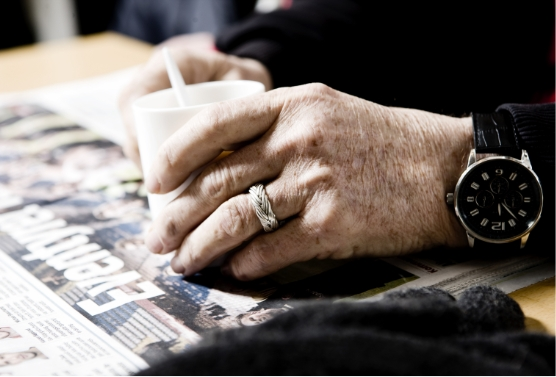
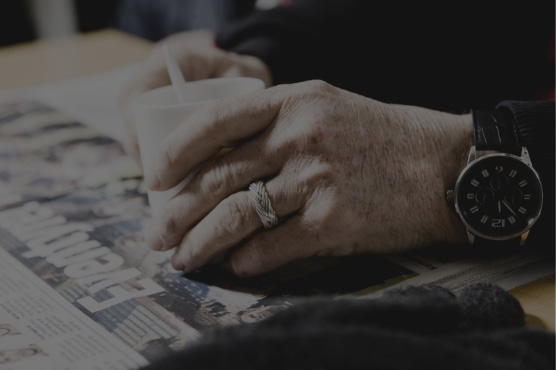
new changes on header and frontpage

diff --git a/sass/03_Layouts/frontpage.scss b/sass/03_Layouts/frontpage.scss
@@ -2,7 +2,7 @@
 //Main Banner Section
 
 .banner{
-    background-image: url(../img/Banner.jpg);
+    background-image: linear-gradient(rgba(0, 0, 0, 0.3), rgba(0, 0, 0, 0.3)), url(../img/Banner.jpg);
 	background-position: center;
 	background-size: cover;
 	background-repeat: no-repeat;
@@ -90,6 +90,8 @@
             margin-bottom: 1.25rem;
             display: block;
             color: $primary-color;
+            font-style: italic;
+            font-weight: bold;
         }
         p{
             margin-bottom: 2.1rem;
@@ -101,7 +103,10 @@
 //Projects Section
 
 .projects{
-    background-color: $primary-color;
+    background-image: linear-gradient(rgba(45, 202, 115, 0.95), rgba(45, 202, 115, 0.95)), url(../img/project_bg.jpg);
+    background-position: center;
+	background-size: cover;
+	background-repeat: no-repeat;
     color: $white-color;
     padding: 75px 0;
     .projects-container{
@@ -110,14 +115,24 @@
     .projects-wrapper{
         display: flex;
         flex-wrap: wrap;
-        justify-content: space-between;¨
-        div{
-            width: 45%;
-            text-align: center; 
+        justify-content: space-between;
+            div{
+                width: 45%;
+                text-align: center; 
+                &:nth-child(1), &:nth-child(2){
+                    margin-bottom: 25px;
+                }
+             h4{
+                font-size: 5rem;
+                margin: 0;
+            }
+            p{
+
+            }
         }
     }
     .project-info{
-        margin-top: 3.1rem;
+        margin-bottom: 3.1rem;
         h2{
             font-size: 1.9rem;
         }
@@ -233,7 +248,7 @@
 
 .newsletter{
     padding: 75px 0;
-    background-image: url(../img/newsletter-bg.jpg);
+    background-image: linear-gradient(rgba(0, 0, 0, 0.6), rgba(0, 0, 0, 0.6)), url(../img/newsletter-bg.jpg);
 	background-position: center;
 	background-size: cover;
 	background-repeat: no-repeat;
@@ -332,6 +347,25 @@
             margin-bottom: 0;
         }
     }
+
+
+    
+//Sponsor Section
+    .spons{
+        padding: 50px 0;
+        .spons-container{
+            display: flex;
+            flex-wrap: wrap;
+            justify-content: space-between;
+            div{
+                width: 20%;
+            &:nth-child(1), &:nth-child(2){
+                    margin-bottom: 0px;
+                }
+            }
+        }
+    }
+    
 }
 
 /**		MEDIA QUERY - Computer 		**/ 
@@ -339,7 +373,7 @@
 @media only screen and (min-width: 1200px) {
 
     .cards{
-        padding: 75px 0px;
+        padding: 110px 0px;
         .cards-container{
             max-width: 1200px;
             text-align: center;
@@ -348,6 +382,40 @@
             }
             p{
                 line-height: 1.8rem;   
+            }
+        }
+    }
+
+
+    .projects{
+        padding: 140px 0;
+        .projects-container{
+           max-width: 1200px;
+           display: flex;
+           justify-content: space-between;
+           align-items: center;
+        }
+        .projects-wrapper{
+            display: flex;
+            flex-wrap: wrap;
+            justify-content: space-between;
+            order: 1;
+                div{
+                    width: 45%;
+                    text-align: center; 
+                    h4{
+                        font-size: 8rem;
+                    }
+                }
+        }
+        .project-info{
+            margin-bottom: 0;
+            width: 35%;
+            h2{
+                font-size: 1.9rem;
+            }
+            p{
+                margin-bottom: 2.1rem;
             }
         }
     }

diff --git a/public_html/frontpage.html b/public_html/frontpage.html
@@ -101,6 +101,11 @@
     </section>
     <section class="projects">
         <div class="projects-container">
+            <div class="project-info">
+                <h2>Fokus på Forandring</h2>
+                <p>Lorem ipsum dolor sit amet, consectetur adipiscing elit, sed do eiusmod tempor incididunt ut labore et aliqua. Ut enim ad minim veniam, quis nostrud exercitation ullamco Duis au reprehenderit in voluptate.</p>
+                <a class="cta-button" href="#">KNAP TEKTS</a>
+            </div>
             <div class="projects-wrapper">
                 <div>
                     <h4>123</h4>
@@ -118,11 +123,6 @@
                     <h4>211</h4>
                     <p>Igangsatte projekter</p>
                 </div>
-            </div>
-            <div class="project-info">
-                <h2>Fokus på Forandring</h2>
-                <p>Lorem ipsum dolor sit amet, consectetur adipiscing elit, sed do eiusmod tempor incididunt ut labore et aliqua. Ut enim ad minim veniam, quis nostrud exercitation ullamco Duis au reprehenderit in voluptate.</p>
-                <a class="cta-button" href="#">KNAP TEKTS</a>
             </div>
         </div>
     </section>

diff --git a/sass/03_Layouts/header.scss b/sass/03_Layouts/header.scss
@@ -119,3 +119,19 @@ header{
     }
 
 }
+
+
+/**		MEDIA QUERY - Tablet lille og på højkant 		**/  
+
+@media only screen and (min-width: 768px) {
+    .card-wrapper {
+        margin-top: 35px;
+        display: flex;
+    }
+}
+
+/**		MEDIA QUERY - Computer 		**/ 
+
+@media only screen and (min-width: 1200px) {
+	
+}
